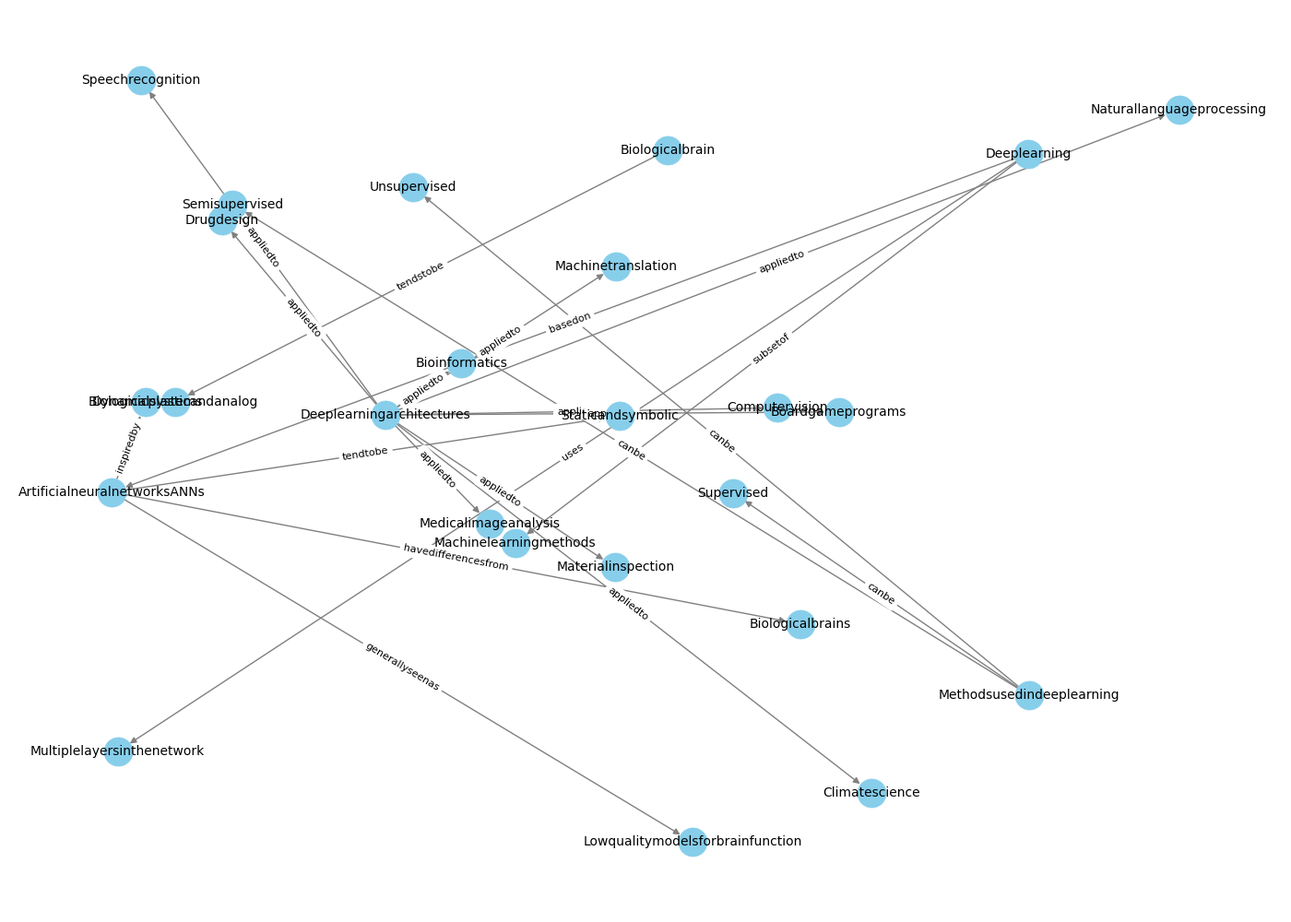
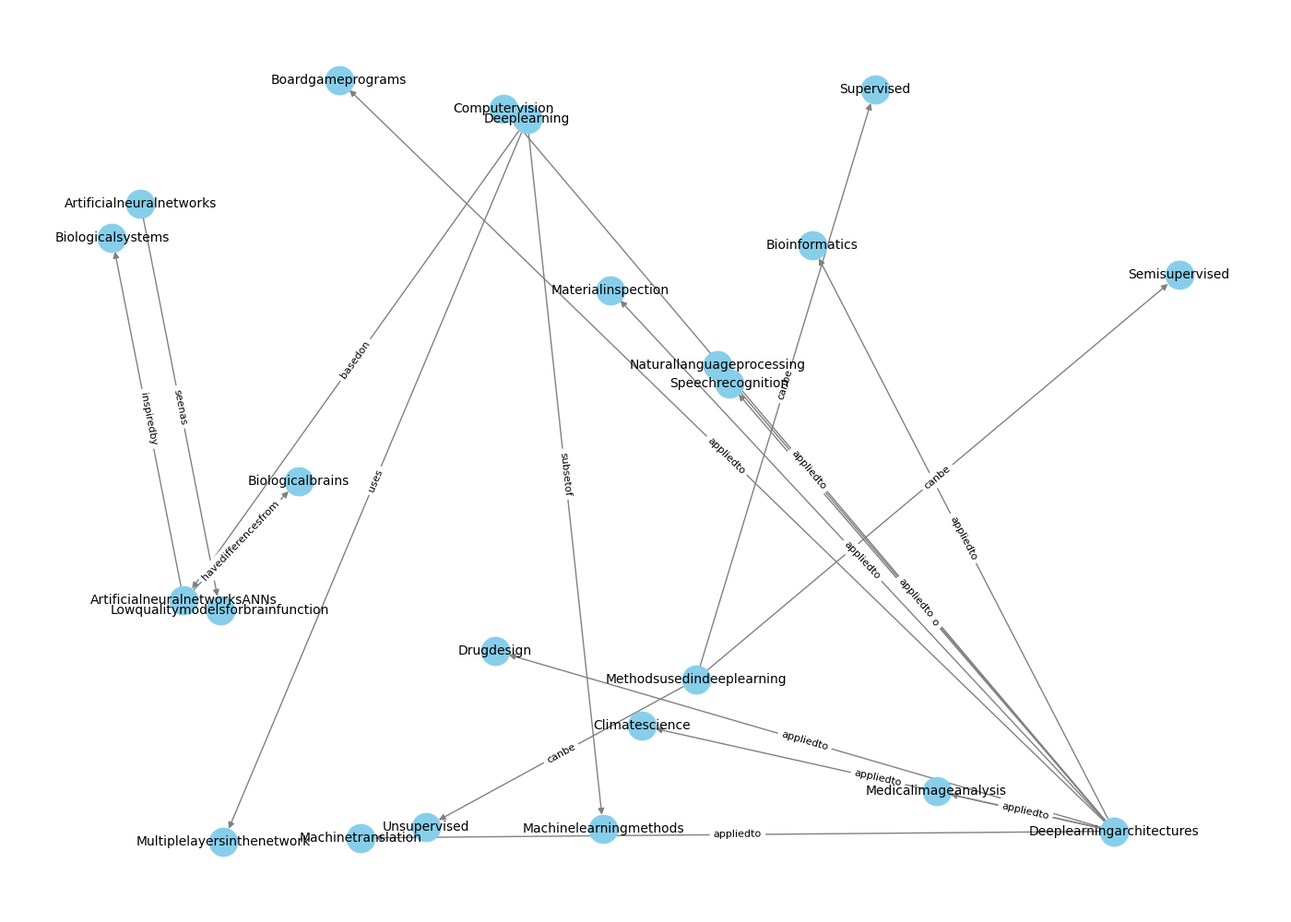
created main and linked functions

diff --git a/KG/GPT/plots/knowledge_graph_extracted_text_from_GPT.html b/KG/GPT/plots/knowledge_graph_extracted_text_from_GPT.html
@@ -88,8 +88,8 @@
                   
 
                   // parsing and collecting nodes and edges from the python
-                  nodes = new vis.DataSet([{"color": "#97c2fc", "id": "Deeplearning", "label": "Deeplearning", "shape": "dot", "size": 10}, {"color": "#97c2fc", "id": "machinelearningmethods", "label": "machinelearningmethods", "shape": "dot", "size": 10}, {"color": "#97c2fc", "id": "artificialneuralnetworks", "label": "artificialneuralnetworks", "shape": "dot", "size": 10}, {"color": "#97c2fc", "id": "Artificialneuralnetworks", "label": "Artificialneuralnetworks", "shape": "dot", "size": 10}, {"color": "#97c2fc", "id": "representationlearning", "label": "representationlearning", "shape": "dot", "size": 10}, {"color": "#97c2fc", "id": "informationprocessing", "label": "informationprocessing", "shape": "dot", "size": 10}, {"color": "#97c2fc", "id": "distributedcommunicationnodesinbiologicalsystems", "label": "distributedcommunicationnodesinbiologicalsystems", "shape": "dot", "size": 10}, {"color": "#97c2fc", "id": "variousdifferencesfrombiologicalbrains", "label": "variousdifferencesfrombiologicalbrains", "shape": "dot", "size": 10}, {"color": "#97c2fc", "id": "staticandsymbolic", "label": "staticandsymbolic", "shape": "dot", "size": 10}, {"color": "#97c2fc", "id": "Theadjectivedeep", "label": "Theadjectivedeep", "shape": "dot", "size": 10}, {"color": "#97c2fc", "id": "theuseofmultiplelayersinthenetwork", "label": "theuseofmultiplelayersinthenetwork", "shape": "dot", "size": 10}, {"color": "#97c2fc", "id": "Methods", "label": "Methods", "shape": "dot", "size": 10}, {"color": "#97c2fc", "id": "supervised", "label": "supervised", "shape": "dot", "size": 10}, {"color": "#97c2fc", "id": "semisupervised", "label": "semisupervised", "shape": "dot", "size": 10}, {"color": "#97c2fc", "id": "unsupervised", "label": "unsupervised", "shape": "dot", "size": 10}, {"color": "#97c2fc", "id": "Deeplearningarchitectures", "label": "Deeplearningarchitectures", "shape": "dot", "size": 10}, {"color": "#97c2fc", "id": "deepneuralnetworks", "label": "deepneuralnetworks", "shape": "dot", "size": 10}, {"color": "#97c2fc", "id": "deepbeliefnetworks", "label": "deepbeliefnetworks", "shape": "dot", "size": 10}, {"color": "#97c2fc", "id": "recurrentneuralnetworks", "label": "recurrentneuralnetworks", "shape": "dot", "size": 10}, {"color": "#97c2fc", "id": "convolutionalneuralnetworks", "label": "convolutionalneuralnetworks", "shape": "dot", "size": 10}, {"color": "#97c2fc", "id": "transformers", "label": "transformers", "shape": "dot", "size": 10}, {"color": "#97c2fc", "id": "computervision", "label": "computervision", "shape": "dot", "size": 10}, {"color": "#97c2fc", "id": "speechrecognition", "label": "speechrecognition", "shape": "dot", "size": 10}, {"color": "#97c2fc", "id": "naturallanguageprocessing", "label": "naturallanguageprocessing", "shape": "dot", "size": 10}, {"color": "#97c2fc", "id": "machinetranslation", "label": "machinetranslation", "shape": "dot", "size": 10}, {"color": "#97c2fc", "id": "bioinformatics", "label": "bioinformatics", "shape": "dot", "size": 10}, {"color": "#97c2fc", "id": "drugdesign", "label": "drugdesign", "shape": "dot", "size": 10}, {"color": "#97c2fc", "id": "medicalimageanalysis", "label": "medicalimageanalysis", "shape": "dot", "size": 10}, {"color": "#97c2fc", "id": "climatescience", "label": "climatescience", "shape": "dot", "size": 10}, {"color": "#97c2fc", "id": "materialinspection", "label": "materialinspection", "shape": "dot", "size": 10}, {"color": "#97c2fc", "id": "boardgameprograms", "label": "boardgameprograms", "shape": "dot", "size": 10}, {"color": "#97c2fc", "id": "Thebiologicalbrainofmostlivingorganisms", "label": "Thebiologicalbrainofmostlivingorganisms", "shape": "dot", "size": 10}, {"color": "#97c2fc", "id": "dynamicplasticandanalog", "label": "dynamicplasticandanalog", "shape": "dot", "size": 10}, {"color": "#97c2fc", "id": "ANNs", "label": "ANNs", "shape": "dot", "size": 10}, {"color": "#97c2fc", "id": "lowqualitymodelsforbrainfunction", "label": "lowqualitymodelsforbrainfunction", "shape": "dot", "size": 10}]);
-                  edges = new vis.DataSet([{"from": "Deeplearning", "relation": "isthesubsetof", "to": "machinelearningmethods", "width": 1}, {"from": "Deeplearning", "relation": "basedon", "to": "artificialneuralnetworks", "width": 1}, {"from": "Artificialneuralnetworks", "relation": "with", "to": "representationlearning", "width": 1}, {"from": "Artificialneuralnetworks", "relation": "wereinspiredby", "to": "informationprocessing", "width": 1}, {"from": "Artificialneuralnetworks", "relation": "wereinspiredby", "to": "distributedcommunicationnodesinbiologicalsystems", "width": 1}, {"from": "Artificialneuralnetworks", "relation": "have", "to": "variousdifferencesfrombiologicalbrains", "width": 1}, {"from": "Artificialneuralnetworks", "relation": "tendtobe", "to": "staticandsymbolic", "width": 1}, {"from": "Theadjectivedeep", "relation": "refersto", "to": "theuseofmultiplelayersinthenetwork", "width": 1}, {"from": "Methods", "relation": "canbe", "to": "supervised", "width": 1}, {"from": "Methods", "relation": "canbe", "to": "semisupervised", "width": 1}, {"from": "Methods", "relation": "canbe", "to": "unsupervised", "width": 1}, {"from": "Deeplearningarchitectures", "relation": "include", "to": "deepneuralnetworks", "width": 1}, {"from": "Deeplearningarchitectures", "relation": "include", "to": "deepbeliefnetworks", "width": 1}, {"from": "Deeplearningarchitectures", "relation": "include", "to": "recurrentneuralnetworks", "width": 1}, {"from": "Deeplearningarchitectures", "relation": "include", "to": "convolutionalneuralnetworks", "width": 1}, {"from": "Deeplearningarchitectures", "relation": "include", "to": "transformers", "width": 1}, {"from": "Deeplearningarchitectures", "relation": "appliedto", "to": "computervision", "width": 1}, {"from": "Deeplearningarchitectures", "relation": "appliedto", "to": "speechrecognition", "width": 1}, {"from": "Deeplearningarchitectures", "relation": "appliedto", "to": "naturallanguageprocessing", "width": 1}, {"from": "Deeplearningarchitectures", "relation": "appliedto", "to": "machinetranslation", "width": 1}, {"from": "Deeplearningarchitectures", "relation": "appliedto", "to": "bioinformatics", "width": 1}, {"from": "Deeplearningarchitectures", "relation": "appliedto", "to": "drugdesign", "width": 1}, {"from": "Deeplearningarchitectures", "relation": "appliedto", "to": "medicalimageanalysis", "width": 1}, {"from": "Deeplearningarchitectures", "relation": "appliedto", "to": "climatescience", "width": 1}, {"from": "Deeplearningarchitectures", "relation": "appliedto", "to": "materialinspection", "width": 1}, {"from": "Deeplearningarchitectures", "relation": "appliedto", "to": "boardgameprograms", "width": 1}, {"from": "Thebiologicalbrainofmostlivingorganisms", "relation": "is", "to": "dynamicplasticandanalog", "width": 1}, {"from": "ANNs", "relation": "aregenerallyseenas", "to": "lowqualitymodelsforbrainfunction", "width": 1}]);
+                  nodes = new vis.DataSet([{"color": "#97c2fc", "id": "Deeplearning", "label": "Deeplearning", "shape": "dot", "size": 10}, {"color": "#97c2fc", "id": "machinelearningmethods", "label": "machinelearningmethods", "shape": "dot", "size": 10}, {"color": "#97c2fc", "id": "artificialneuralnetworks", "label": "artificialneuralnetworks", "shape": "dot", "size": 10}, {"color": "#97c2fc", "id": "Artificialneuralnetworks", "label": "Artificialneuralnetworks", "shape": "dot", "size": 10}, {"color": "#97c2fc", "id": "representationlearning", "label": "representationlearning", "shape": "dot", "size": 10}, {"color": "#97c2fc", "id": "informationprocessing", "label": "informationprocessing", "shape": "dot", "size": 10}, {"color": "#97c2fc", "id": "distributedcommunicationnodesinbiologicalsystems", "label": "distributedcommunicationnodesinbiologicalsystems", "shape": "dot", "size": 10}, {"color": "#97c2fc", "id": "variousdifferencesfrombiologicalbrains", "label": "variousdifferencesfrombiologicalbrains", "shape": "dot", "size": 10}, {"color": "#97c2fc", "id": "staticandsymbolic", "label": "staticandsymbolic", "shape": "dot", "size": 10}, {"color": "#97c2fc", "id": "Theadjectivedeep", "label": "Theadjectivedeep", "shape": "dot", "size": 10}, {"color": "#97c2fc", "id": "theuseofmultiplelayersinthenetwork", "label": "theuseofmultiplelayersinthenetwork", "shape": "dot", "size": 10}, {"color": "#97c2fc", "id": "Methods", "label": "Methods", "shape": "dot", "size": 10}, {"color": "#97c2fc", "id": "supervised", "label": "supervised", "shape": "dot", "size": 10}, {"color": "#97c2fc", "id": "semisupervised", "label": "semisupervised", "shape": "dot", "size": 10}, {"color": "#97c2fc", "id": "unsupervised", "label": "unsupervised", "shape": "dot", "size": 10}, {"color": "#97c2fc", "id": "Deeplearningarchitectures", "label": "Deeplearningarchitectures", "shape": "dot", "size": 10}, {"color": "#97c2fc", "id": "fieldsincludingcomputervision", "label": "fieldsincludingcomputervision", "shape": "dot", "size": 10}, {"color": "#97c2fc", "id": "speechrecognition", "label": "speechrecognition", "shape": "dot", "size": 10}, {"color": "#97c2fc", "id": "naturallanguageprocessing", "label": "naturallanguageprocessing", "shape": "dot", "size": 10}, {"color": "#97c2fc", "id": "machinetranslation", "label": "machinetranslation", "shape": "dot", "size": 10}, {"color": "#97c2fc", "id": "bioinformatics", "label": "bioinformatics", "shape": "dot", "size": 10}, {"color": "#97c2fc", "id": "drugdesign", "label": "drugdesign", "shape": "dot", "size": 10}, {"color": "#97c2fc", "id": "medicalimageanalysis", "label": "medicalimageanalysis", "shape": "dot", "size": 10}, {"color": "#97c2fc", "id": "climatescience", "label": "climatescience", "shape": "dot", "size": 10}, {"color": "#97c2fc", "id": "materialinspection", "label": "materialinspection", "shape": "dot", "size": 10}, {"color": "#97c2fc", "id": "boardgameprograms", "label": "boardgameprograms", "shape": "dot", "size": 10}, {"color": "#97c2fc", "id": "Thebiologicalbrainofmostlivingorganisms", "label": "Thebiologicalbrainofmostlivingorganisms", "shape": "dot", "size": 10}, {"color": "#97c2fc", "id": "dynamicplasticandanalog", "label": "dynamicplasticandanalog", "shape": "dot", "size": 10}, {"color": "#97c2fc", "id": "ANNs", "label": "ANNs", "shape": "dot", "size": 10}, {"color": "#97c2fc", "id": "lowqualitymodelsforbrainfunction", "label": "lowqualitymodelsforbrainfunction", "shape": "dot", "size": 10}]);
+                  edges = new vis.DataSet([{"from": "Deeplearning", "relation": "isthesubsetof", "to": "machinelearningmethods", "width": 1}, {"from": "Deeplearning", "relation": "basedon", "to": "artificialneuralnetworks", "width": 1}, {"from": "Artificialneuralnetworks", "relation": "with", "to": "representationlearning", "width": 1}, {"from": "Artificialneuralnetworks", "relation": "wereinspiredby", "to": "informationprocessing", "width": 1}, {"from": "Artificialneuralnetworks", "relation": "wereinspiredby", "to": "distributedcommunicationnodesinbiologicalsystems", "width": 1}, {"from": "Artificialneuralnetworks", "relation": "have", "to": "variousdifferencesfrombiologicalbrains", "width": 1}, {"from": "Artificialneuralnetworks", "relation": "tendtobe", "to": "staticandsymbolic", "width": 1}, {"from": "Theadjectivedeep", "relation": "refersto", "to": "theuseofmultiplelayersinthenetwork", "width": 1}, {"from": "Methods", "relation": "canbe", "to": "supervised", "width": 1}, {"from": "Methods", "relation": "canbe", "to": "semisupervised", "width": 1}, {"from": "Methods", "relation": "canbe", "to": "unsupervised", "width": 1}, {"from": "Deeplearningarchitectures", "relation": "havebeenappliedto", "to": "fieldsincludingcomputervision", "width": 1}, {"from": "Deeplearningarchitectures", "relation": "havebeenappliedto", "to": "speechrecognition", "width": 1}, {"from": "Deeplearningarchitectures", "relation": "havebeenappliedto", "to": "naturallanguageprocessing", "width": 1}, {"from": "Deeplearningarchitectures", "relation": "havebeenappliedto", "to": "machinetranslation", "width": 1}, {"from": "Deeplearningarchitectures", "relation": "havebeenappliedto", "to": "bioinformatics", "width": 1}, {"from": "Deeplearningarchitectures", "relation": "havebeenappliedto", "to": "drugdesign", "width": 1}, {"from": "Deeplearningarchitectures", "relation": "havebeenappliedto", "to": "medicalimageanalysis", "width": 1}, {"from": "Deeplearningarchitectures", "relation": "havebeenappliedto", "to": "climatescience", "width": 1}, {"from": "Deeplearningarchitectures", "relation": "havebeenappliedto", "to": "materialinspection", "width": 1}, {"from": "Deeplearningarchitectures", "relation": "havebeenappliedto", "to": "boardgameprograms", "width": 1}, {"from": "Thebiologicalbrainofmostlivingorganisms", "relation": "is", "to": "dynamicplasticandanalog", "width": 1}, {"from": "ANNs", "relation": "aregenerallyseenas", "to": "lowqualitymodelsforbrainfunction", "width": 1}]);
 
                   nodeColors = {};
                   allNodes = nodes.get({ returnType: "Object" });

diff --git a/KG/GPT/plots/knowledge_graph_extracted_text_from_mixtral-8x7b-instruct.html b/KG/GPT/plots/knowledge_graph_extracted_text_from_mixtral-8x7b-instruct.html
@@ -88,8 +88,8 @@
                   
 
                   // parsing and collecting nodes and edges from the python
-                  nodes = new vis.DataSet([{"color": "#97c2fc", "id": "Deeplearning", "label": "Deeplearning", "shape": "dot", "size": 10}, {"color": "#97c2fc", "id": "Machinelearningmethods", "label": "Machinelearningmethods", "shape": "dot", "size": 10}, {"color": "#97c2fc", "id": "ArtificialneuralnetworksANNs", "label": "ArtificialneuralnetworksANNs", "shape": "dot", "size": 10}, {"color": "#97c2fc", "id": "Multiplelayersinthenetwork", "label": "Multiplelayersinthenetwork", "shape": "dot", "size": 10}, {"color": "#97c2fc", "id": "Biologicalsystems", "label": "Biologicalsystems", "shape": "dot", "size": 10}, {"color": "#97c2fc", "id": "Biologicalbrains", "label": "Biologicalbrains", "shape": "dot", "size": 10}, {"color": "#97c2fc", "id": "Staticandsymbolic", "label": "Staticandsymbolic", "shape": "dot", "size": 10}, {"color": "#97c2fc", "id": "Lowqualitymodelsforbrainfunction", "label": "Lowqualitymodelsforbrainfunction", "shape": "dot", "size": 10}, {"color": "#97c2fc", "id": "Methodsusedindeeplearning", "label": "Methodsusedindeeplearning", "shape": "dot", "size": 10}, {"color": "#97c2fc", "id": "Supervised", "label": "Supervised", "shape": "dot", "size": 10}, {"color": "#97c2fc", "id": "Semisupervised", "label": "Semisupervised", "shape": "dot", "size": 10}, {"color": "#97c2fc", "id": "Unsupervised", "label": "Unsupervised", "shape": "dot", "size": 10}, {"color": "#97c2fc", "id": "Deeplearningarchitectures", "label": "Deeplearningarchitectures", "shape": "dot", "size": 10}, {"color": "#97c2fc", "id": "Computervision", "label": "Computervision", "shape": "dot", "size": 10}, {"color": "#97c2fc", "id": "Speechrecognition", "label": "Speechrecognition", "shape": "dot", "size": 10}, {"color": "#97c2fc", "id": "Naturallanguageprocessing", "label": "Naturallanguageprocessing", "shape": "dot", "size": 10}, {"color": "#97c2fc", "id": "Machinetranslation", "label": "Machinetranslation", "shape": "dot", "size": 10}, {"color": "#97c2fc", "id": "Bioinformatics", "label": "Bioinformatics", "shape": "dot", "size": 10}, {"color": "#97c2fc", "id": "Drugdesign", "label": "Drugdesign", "shape": "dot", "size": 10}, {"color": "#97c2fc", "id": "Medicalimageanalysis", "label": "Medicalimageanalysis", "shape": "dot", "size": 10}, {"color": "#97c2fc", "id": "Climatescience", "label": "Climatescience", "shape": "dot", "size": 10}, {"color": "#97c2fc", "id": "Materialinspection", "label": "Materialinspection", "shape": "dot", "size": 10}, {"color": "#97c2fc", "id": "Boardgameprograms", "label": "Boardgameprograms", "shape": "dot", "size": 10}, {"color": "#97c2fc", "id": "Biologicalbrain", "label": "Biologicalbrain", "shape": "dot", "size": 10}, {"color": "#97c2fc", "id": "Dynamicplasticandanalog", "label": "Dynamicplasticandanalog", "shape": "dot", "size": 10}]);
-                  edges = new vis.DataSet([{"from": "Deeplearning", "relation": "subsetof", "to": "Machinelearningmethods", "width": 1}, {"from": "Deeplearning", "relation": "basedon", "to": "ArtificialneuralnetworksANNs", "width": 1}, {"from": "Deeplearning", "relation": "uses", "to": "Multiplelayersinthenetwork", "width": 1}, {"from": "ArtificialneuralnetworksANNs", "relation": "inspiredby", "to": "Biologicalsystems", "width": 1}, {"from": "ArtificialneuralnetworksANNs", "relation": "havedifferencesfrom", "to": "Biologicalbrains", "width": 1}, {"from": "ArtificialneuralnetworksANNs", "relation": "tendtobe", "to": "Staticandsymbolic", "width": 1}, {"from": "ArtificialneuralnetworksANNs", "relation": "generallyseenas", "to": "Lowqualitymodelsforbrainfunction", "width": 1}, {"from": "Methodsusedindeeplearning", "relation": "canbe", "to": "Supervised", "width": 1}, {"from": "Methodsusedindeeplearning", "relation": "canbe", "to": "Semisupervised", "width": 1}, {"from": "Methodsusedindeeplearning", "relation": "canbe", "to": "Unsupervised", "width": 1}, {"from": "Deeplearningarchitectures", "relation": "appliedto", "to": "Computervision", "width": 1}, {"from": "Deeplearningarchitectures", "relation": "appliedto", "to": "Speechrecognition", "width": 1}, {"from": "Deeplearningarchitectures", "relation": "appliedto", "to": "Naturallanguageprocessing", "width": 1}, {"from": "Deeplearningarchitectures", "relation": "appliedto", "to": "Machinetranslation", "width": 1}, {"from": "Deeplearningarchitectures", "relation": "appliedto", "to": "Bioinformatics", "width": 1}, {"from": "Deeplearningarchitectures", "relation": "appliedto", "to": "Drugdesign", "width": 1}, {"from": "Deeplearningarchitectures", "relation": "appliedto", "to": "Medicalimageanalysis", "width": 1}, {"from": "Deeplearningarchitectures", "relation": "appliedto", "to": "Climatescience", "width": 1}, {"from": "Deeplearningarchitectures", "relation": "appliedto", "to": "Materialinspection", "width": 1}, {"from": "Deeplearningarchitectures", "relation": "appliedto", "to": "Boardgameprograms", "width": 1}, {"from": "Biologicalbrain", "relation": "tendstobe", "to": "Dynamicplasticandanalog", "width": 1}]);
+                  nodes = new vis.DataSet([{"color": "#97c2fc", "id": "Deeplearning", "label": "Deeplearning", "shape": "dot", "size": 10}, {"color": "#97c2fc", "id": "Machinelearningmethods", "label": "Machinelearningmethods", "shape": "dot", "size": 10}, {"color": "#97c2fc", "id": "ArtificialneuralnetworksANNs", "label": "ArtificialneuralnetworksANNs", "shape": "dot", "size": 10}, {"color": "#97c2fc", "id": "Multiplelayersinthenetwork", "label": "Multiplelayersinthenetwork", "shape": "dot", "size": 10}, {"color": "#97c2fc", "id": "Biologicalsystems", "label": "Biologicalsystems", "shape": "dot", "size": 10}, {"color": "#97c2fc", "id": "Biologicalbrains", "label": "Biologicalbrains", "shape": "dot", "size": 10}, {"color": "#97c2fc", "id": "Methodsusedindeeplearning", "label": "Methodsusedindeeplearning", "shape": "dot", "size": 10}, {"color": "#97c2fc", "id": "Supervised", "label": "Supervised", "shape": "dot", "size": 10}, {"color": "#97c2fc", "id": "Semisupervised", "label": "Semisupervised", "shape": "dot", "size": 10}, {"color": "#97c2fc", "id": "Unsupervised", "label": "Unsupervised", "shape": "dot", "size": 10}, {"color": "#97c2fc", "id": "Deeplearningarchitectures", "label": "Deeplearningarchitectures", "shape": "dot", "size": 10}, {"color": "#97c2fc", "id": "Computervision", "label": "Computervision", "shape": "dot", "size": 10}, {"color": "#97c2fc", "id": "Speechrecognition", "label": "Speechrecognition", "shape": "dot", "size": 10}, {"color": "#97c2fc", "id": "Naturallanguageprocessing", "label": "Naturallanguageprocessing", "shape": "dot", "size": 10}, {"color": "#97c2fc", "id": "Machinetranslation", "label": "Machinetranslation", "shape": "dot", "size": 10}, {"color": "#97c2fc", "id": "Bioinformatics", "label": "Bioinformatics", "shape": "dot", "size": 10}, {"color": "#97c2fc", "id": "Drugdesign", "label": "Drugdesign", "shape": "dot", "size": 10}, {"color": "#97c2fc", "id": "Medicalimageanalysis", "label": "Medicalimageanalysis", "shape": "dot", "size": 10}, {"color": "#97c2fc", "id": "Climatescience", "label": "Climatescience", "shape": "dot", "size": 10}, {"color": "#97c2fc", "id": "Materialinspection", "label": "Materialinspection", "shape": "dot", "size": 10}, {"color": "#97c2fc", "id": "Boardgameprograms", "label": "Boardgameprograms", "shape": "dot", "size": 10}, {"color": "#97c2fc", "id": "Artificialneuralnetworks", "label": "Artificialneuralnetworks", "shape": "dot", "size": 10}, {"color": "#97c2fc", "id": "Lowqualitymodelsforbrainfunction", "label": "Lowqualitymodelsforbrainfunction", "shape": "dot", "size": 10}]);
+                  edges = new vis.DataSet([{"from": "Deeplearning", "relation": "subsetof", "to": "Machinelearningmethods", "width": 1}, {"from": "Deeplearning", "relation": "basedon", "to": "ArtificialneuralnetworksANNs", "width": 1}, {"from": "Deeplearning", "relation": "uses", "to": "Multiplelayersinthenetwork", "width": 1}, {"from": "ArtificialneuralnetworksANNs", "relation": "inspiredby", "to": "Biologicalsystems", "width": 1}, {"from": "ArtificialneuralnetworksANNs", "relation": "havedifferencesfrom", "to": "Biologicalbrains", "width": 1}, {"from": "Methodsusedindeeplearning", "relation": "canbe", "to": "Supervised", "width": 1}, {"from": "Methodsusedindeeplearning", "relation": "canbe", "to": "Semisupervised", "width": 1}, {"from": "Methodsusedindeeplearning", "relation": "canbe", "to": "Unsupervised", "width": 1}, {"from": "Deeplearningarchitectures", "relation": "appliedto", "to": "Computervision", "width": 1}, {"from": "Deeplearningarchitectures", "relation": "appliedto", "to": "Speechrecognition", "width": 1}, {"from": "Deeplearningarchitectures", "relation": "appliedto", "to": "Naturallanguageprocessing", "width": 1}, {"from": "Deeplearningarchitectures", "relation": "appliedto", "to": "Machinetranslation", "width": 1}, {"from": "Deeplearningarchitectures", "relation": "appliedto", "to": "Bioinformatics", "width": 1}, {"from": "Deeplearningarchitectures", "relation": "appliedto", "to": "Drugdesign", "width": 1}, {"from": "Deeplearningarchitectures", "relation": "appliedto", "to": "Medicalimageanalysis", "width": 1}, {"from": "Deeplearningarchitectures", "relation": "appliedto", "to": "Climatescience", "width": 1}, {"from": "Deeplearningarchitectures", "relation": "appliedto", "to": "Materialinspection", "width": 1}, {"from": "Deeplearningarchitectures", "relation": "appliedto", "to": "Boardgameprograms", "width": 1}, {"from": "Artificialneuralnetworks", "relation": "seenas", "to": "Lowqualitymodelsforbrainfunction", "width": 1}]);
 
                   nodeColors = {};
                   allNodes = nodes.get({ returnType: "Object" });

diff --git a/KG/GPT/tripletsExtractor.py b/KG/GPT/tripletsExtractor.py
@@ -15,9 +15,8 @@ def summarize_text(text, max_length=10000):
     return text[:max_length]
 
 
-def get_wikipedia_text():
+def get_wikipedia_text(topic):
 
-    topic = "deep learning"
     search_results = wikipedia.search(topic)
 
     if not search_results:
@@ -38,14 +37,27 @@ def get_wikipedia_text():
         return "Page not found for the topic."
 
 
-def GPTResponse(prompt):
-    """Gets a response from an AI model for a given prompt."""
+def GPTResponse(topic):
+
+    testimony = summarize_text(get_wikipedia_text(topic))
+    prompt_template = """
+    You will perform the open information extraction task. You will identify the named entities in the content and then extract the relations between them.
+    Based on the provided testimony, you will return triples which are formatted as <named entity A, relation, named entity B> without enumerating them.
+
+    START of the testimony:
+    {testimony}
+    END of the testimony.
+
+    The extracted triples formatted as <named entity A, relation, named entity B> are:
+    """
+    prompt = prompt_template.format(testimony=testimony)
+
     chat = ChatOpenAI(model_name="gpt-4", temperature=0)
     res = chat.predict(prompt)
-    return res
+    save_text_to_file(res, "extracted_text_from_GPT.txt", "tripletsTXTs")
 
 
-def modelsResponse(text=get_wikipedia_text()):
+def modelsResponse(text):
     output_directory = "tripletsTXTs"
     client = OpenAI(
         api_key="LL-5OPT3xLPTWxSff1zUH42hQxtOBQPTLhqOlnHCMLrDYpRGIwgXaum7Rj8LWu31eXV",
@@ -100,21 +112,3 @@ def save_text_to_file(text, filename, output_directory):
     print(f"Content saved to {filepath}")
 
 
-
-text_from_wiki = get_wikipedia_text()
-modelsResponse(text_from_wiki)
-
-testimony = summarize_text(get_wikipedia_text())
-prompt_template = """
-You will perform the open information extraction task. You will identify the named entities in the content and then extract the relations between them.
-Based on the provided testimony, you will return triples which are formatted as <named entity A, relation, named entity B> without enumerating them.
-
-START of the testimony:
-{testimony}
-END of the testimony.
-
-The extracted triples formatted as <named entity A, relation, named entity B> are:
-"""
-prompt = prompt_template.format(testimony=testimony)
-output_text = GPTResponse(prompt)
-save_text_to_file(output_text, "extracted_text_from_GPT.txt", "tripletsTXTs")

diff --git a/KG/GPT/graph_stats.py b/KG/GPT/graph_stats.py
@@ -1,5 +1,4 @@
 import networkx as nx
-import matplotlib.pyplot as plt
 from networkx.algorithms import isomorphism
 import numpy as np
 from scipy.linalg import eigh
@@ -112,6 +111,7 @@ def detect_and_analyze_communities(G, title):
     plt.title(f"Community Structure - {title}")
     plt.show()
 
+
 def visualize_embeddings(embeddings, title):
     tsne = TSNE(n_components=2, random_state=42)
     embeddings_2d = tsne.fit_transform(embeddings)
@@ -120,6 +120,7 @@ def visualize_embeddings(embeddings, title):
     plt.scatter(embeddings_2d[:, 0], embeddings_2d[:, 1])
     plt.title(f"Node Embeddings Visualization - {title}")
     plt.show()
+
 
 # Example usage:
 G1 = nx.gnp_random_graph(100, 0.1, seed=42)
@@ -144,8 +145,8 @@ compare_embeddings(embeddings_G1, embeddings_G2)
 analyze_connected_components(G1, "Graph 1")
 analyze_connected_components(G2, "Graph 2")
 
-#detect_and_analyze_communities(G1, "Graph 1")
-#detect_and_analyze_communities(G2, "Graph 2")
+# detect_and_analyze_communities(G1, "Graph 1")
+# detect_and_analyze_communities(G2, "Graph 2")
 
-visualize_embeddings(embeddings_G1, "Graph 1") #trash
+visualize_embeddings(embeddings_G1, "Graph 1")  # trash
 visualize_embeddings(embeddings_G2, "Graph 2")

diff --git a/KG/GPT/ontology_interrogation.py b/KG/GPT/ontology_interrogation.py
@@ -1,19 +1,21 @@
 from rdflib import Graph
 
-g = Graph()
-g.parse("ontology_GPT-4model.ttl", format="ttl")
 
-# Assuming g is your RDFLib Graph containing the ontology
-sparql_query = """
-PREFIX ns1: <http://example.org/myontology/>
+def interrogate():
+    g = Graph()
+    g.parse("turtle/ontology_extracted_text_from_GPT.ttl", format="ttl")
 
-SELECT ?subject ?application
-WHERE {
-  ?subject ns1:basedon ?app .
-  BIND(STRAFTER(STR(?app), STR(ns1:)) AS ?application)
-}
-"""
+    # Assuming g is your RDFLib Graph containing the ontology
+    sparql_query = """
+    PREFIX ns1: <http://example.org/myontology/>
+    
+    SELECT ?subject ?application
+    WHERE {
+      ?subject ns1:issoldas ?app .
+      BIND(STRAFTER(STR(?app), STR(ns1:)) AS ?application)
+    }
+    """
 
-# Execute the query
-for row in g.query(sparql_query):
-    print(f"Application: {row.application}")
+    # Execute the query
+    for row in g.query(sparql_query):
+        print(f"Application: {row.application}")

diff --git a/KG/GPT/KG.py b/KG/GPT/KG.py
@@ -5,9 +5,6 @@ import re
 import os
 from pyvis.network import Network
 
-filename = ["extracted_text_from_GPT.txt", "extracted_text_from_llama-13b-chat.txt", "extracted_text_from_llama-70b-chat.txt",
-            "extracted_text_from_mistral-7b-instruct.txt", "extracted_text_from_mixtral-8x7b-instruct.txt", "extracted_text_from_vicuna-13b.txt"]
-
 
 def normalize_name(name):
     # Replace spaces with underscores and remove < and > characters
@@ -101,5 +98,3 @@ def visualize_with_pyvis(g, output_file, filename_without_extension):
     nt.save_graph('plots/knowledge_graph_' + filename_without_extension + '.html')
 
 
-for file in filename:
-    KG_creation(file)

diff --git a/KG/GPT/main.py b/KG/GPT/main.py
@@ -1,0 +1,20 @@
+import tripletsExtractor as te
+import KG as kg
+import ontology_interrogation as oi
+
+
+filename = ["extracted_text_from_GPT.txt", "extracted_text_from_llama-13b-chat.txt", "extracted_text_from_llama-70b-chat.txt",
+            "extracted_text_from_mistral-7b-instruct.txt", "extracted_text_from_mixtral-8x7b-instruct.txt", "extracted_text_from_vicuna-13b.txt"]
+
+
+# Extract triplets from Wikipedia
+topic = "deep learning"
+text_from_wikipedia = te.get_wikipedia_text(topic)
+te.modelsResponse(text_from_wikipedia)
+te.GPTResponse(topic)
+
+# Create KG from triplets
+for file in filename:
+    kg.KG_creation(file)
+
+oi.interrogate()
